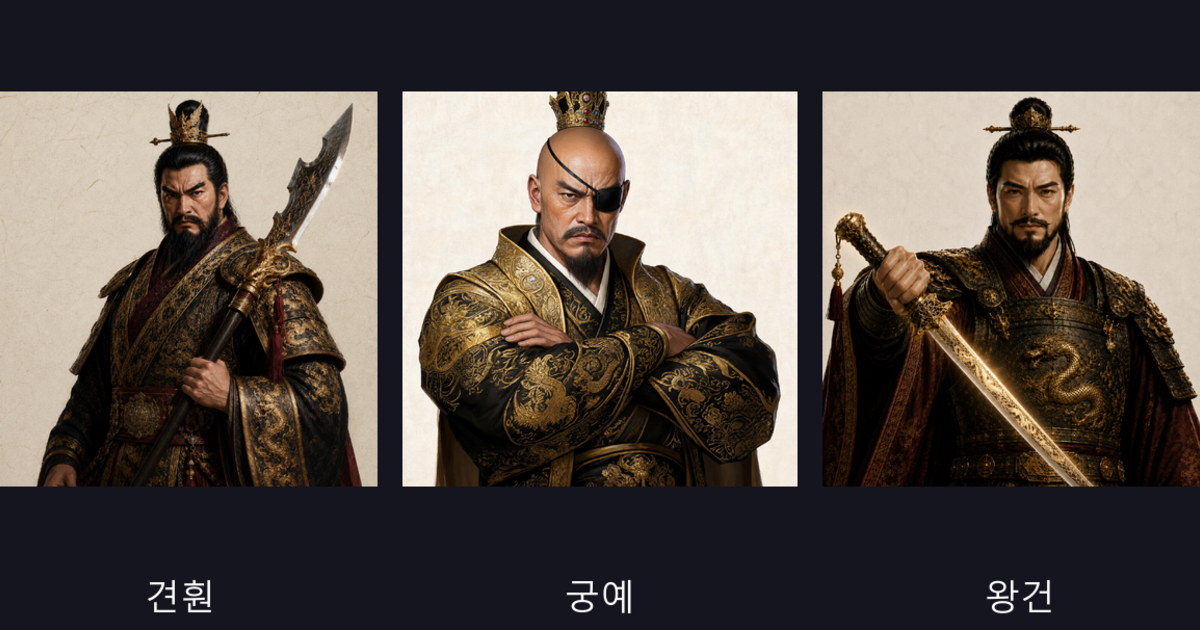
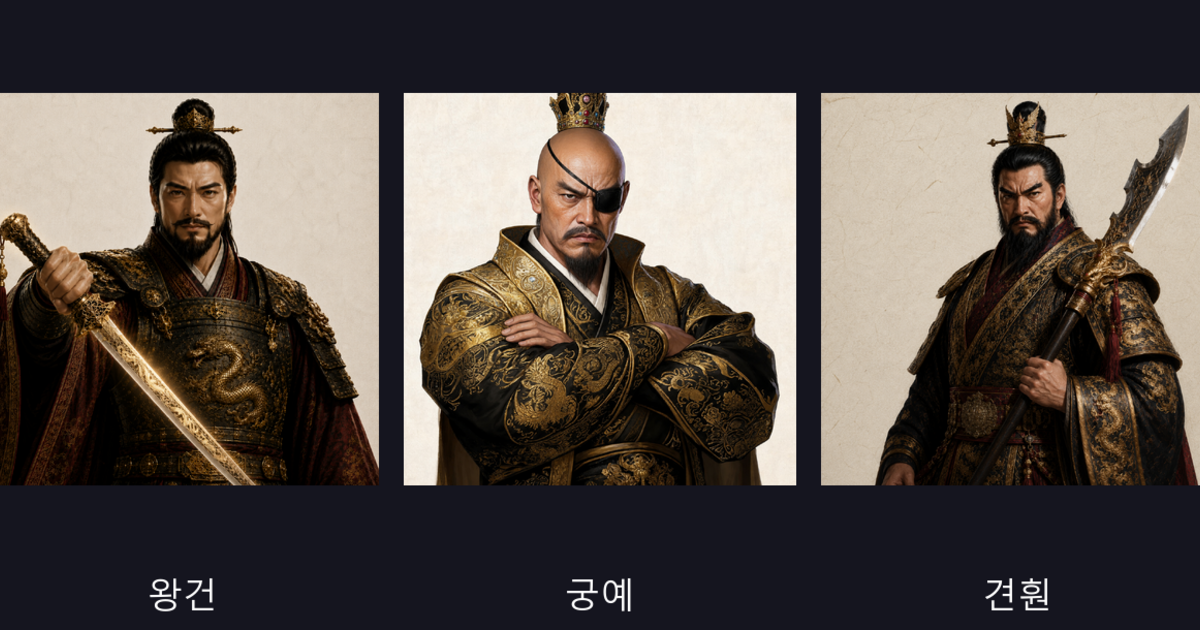
fix: 후삼국지 3편 재탕 제거 + 순서 왕건·궁예·견훤
- 커버≠본문, 글마다 다른 인물(이름표): 641장 활용
  characters 커버=왕건·궁예·견훤, 본문=유금필·신숭겸·박술희
  key-moments 커버=세계지도, 본문=장보고·김양·정년
  strategy 커버=배현경·복지겸·홍유, 본문=김훤·수달·최승우
- 인물 순서 왕건·궁예·견훤으로 정정
- 본문 이미지 글별 분리(svc 공유 → hsg-*)

diff --git a/content/blog/hoosamguk-key-moments.md b/content/blog/hoosamguk-key-moments.md
@@ -14,7 +14,7 @@ relatedServices: [hoosamgukji]
 그래서 이 글은 역사를 연대기처럼 나열하는 대신, **"게임 속 분기점이라면 당신은 어떻게 했을까"** 라는 입문자 시선으로 후삼국의 결정적 장면을 다시 봅니다. 각 순간이 전략 게임의 어떤 판단(내정·민심·전투·외교)과 연결되는지를 함께 짚으면, 교과서 속 사건이 살아 있는 전략 게임처럼 다가옵니다.
 
 
-![후삼국지 실제 화면](/blog/inline/svc-hoosamguk.jpg)
+![후삼국지 실제 화면](/blog/inline/hsg-keymoments.jpg)
 
 > 📱 **후삼국지** — 대한민국 후삼국 시대를 배경으로 한 전략 시뮬레이션 게임. [후삼국지 자세히 보기 →](/projects/hoosamgukji)
 

diff --git a/content/blog/strategy-sim-terms.md b/content/blog/strategy-sim-terms.md
@@ -14,7 +14,7 @@ relatedServices: [hoosamgukji]
 그래서 이 글은 **게임을 처음 켠 입문자가 첫 판부터 막히지 않도록**, 자주 마주치는 기본 용어를 게임 화면의 시선으로 풀어 정리합니다. 용어를 내정·외교·전투 세 묶음으로 나눠, 각각이 게임에서 어떤 버튼·상황과 연결되는지까지 함께 봅니다. 이 정도만 알면 첫 판은 충분히 굴러갑니다.
 
 
-![후삼국지 실제 화면](/blog/inline/svc-hoosamguk.jpg)
+![후삼국지 실제 화면](/blog/inline/hsg-strategy.jpg)
 
 > 📱 **후삼국지** — 대한민국 후삼국 시대를 배경으로 한 전략 시뮬레이션 게임. [후삼국지 자세히 보기 →](/projects/hoosamgukji)
 

diff --git a/content/blog/hoosamguk-characters.md b/content/blog/hoosamguk-characters.md
@@ -14,7 +14,7 @@ relatedServices: [hoosamgukji]
 그래서 이 글은 역사 교과서식 설명이 아니라, **"입문자가 첫 세력을 고르는 가이드"** 시선으로 세 인물을 정리합니다. 각 세력의 강점과 약점, 어떤 플레이에 어울리는지, 그리고 이들이 실제 역사에서 어떻게 부딪혔는지를 함께 봅니다. 세력의 성격을 알면 첫 판이 훨씬 재미있어집니다.
 
 
-![후삼국지 실제 화면](/blog/inline/svc-hoosamguk.jpg)
+![후삼국지 실제 화면](/blog/inline/hsg-characters.jpg)
 
 > 📱 **후삼국지** — 대한민국 후삼국 시대를 배경으로 한 전략 시뮬레이션 게임. [후삼국지 자세히 보기 →](/projects/hoosamgukji)
 
